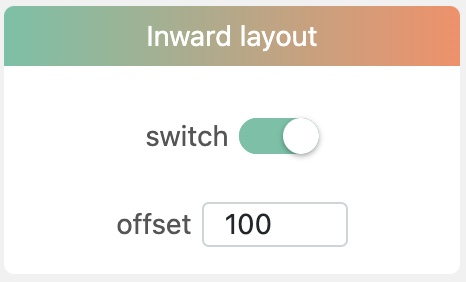
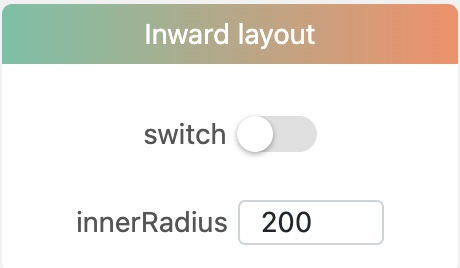
commit

diff --git a/chitree/user_interface/attribute_main/branches.html b/chitree/user_interface/attribute_main/branches.html
@@ -853,7 +853,7 @@
 <h4 id="attributes-in-this-block-are-only-available-in-circular-layout-tree">Attributes in this block are only available in circular layout tree</h4>
 </blockquote>
 <p><button class="list-btn">1</button> <strong>switch</strong>: Whether to display tree in inward layout.</p>
-<p><button class="list-btn">2</button> <strong>offset</strong>: The outer radius offset of tree circle.</p>
+<p><button class="list-btn">2</button> <strong>innerRadius</strong>: The distance from central point to the tip of the max length branch.</p>
 <h1 id="branches">Branches</h1>
 <p><div style="display:flex;justify-content: center;"><img src="img/branches/branches.jpg" alt="canvasSetting-1" style="width:25%;object-fit: scale-down;"></div></p>
 
@@ -1021,7 +1021,6 @@ Text of bootstrap value can be dragged by mouse to a new position.
 </div>
 </div></p>
 
-
                                 
                                 </section>
                             
@@ -1064,7 +1063,7 @@ Text of bootstrap value can be dragged by mouse to a new position.
     <script>
         var gitbook = gitbook || [];
         gitbook.push(function() {
-            gitbook.page.hasChanged({"page":{"title":"branches","level":"1.2.2.4","depth":3,"next":{"title":"folded clade","level":"1.2.2.5","depth":3,"path":"user_interface/attribute_main/foldedClade.md","ref":"user_interface/attribute_main/foldedClade.md","articles":[]},"previous":{"title":"leaves","level":"1.2.2.3","depth":3,"path":"user_interface/attribute_main/leaves.md","ref":"user_interface/attribute_main/leaves.md","articles":[]},"dir":"ltr"},"config":{"gitbook":"*","theme":"default","variables":{},"plugins":[],"pluginsConfig":{"highlight":{},"search":{},"lunr":{"maxIndexSize":1000000,"ignoreSpecialCharacters":false},"sharing":{"facebook":true,"twitter":true,"google":false,"weibo":false,"instapaper":false,"vk":false,"all":["facebook","google","twitter","weibo","instapaper"]},"fontsettings":{"theme":"white","family":"sans","size":2},"theme-default":{"styles":{"website":"styles/website.css","pdf":"styles/pdf.css","epub":"styles/epub.css","mobi":"styles/mobi.css","ebook":"styles/ebook.css","print":"styles/print.css"},"showLevel":false}},"structure":{"langs":"LANGS.md","readme":"README.md","glossary":"GLOSSARY.md","summary":"SUMMARY.md"},"pdf":{"pageNumbers":true,"fontSize":12,"fontFamily":"Arial","paperSize":"a4","chapterMark":"pagebreak","pageBreaksBefore":"/","margin":{"right":62,"left":62,"top":56,"bottom":56}},"styles":{"website":"styles/website.css","pdf":"styles/pdf.css","epub":"styles/epub.css","mobi":"styles/mobi.css","ebook":"styles/ebook.css","print":"styles/print.css"}},"file":{"path":"user_interface/attribute_main/branches.md","mtime":"2022-10-31T12:00:25.647Z","type":"markdown"},"gitbook":{"version":"3.2.3","time":"2022-11-03T10:13:50.429Z"},"basePath":"../..","book":{"language":""}});
+            gitbook.page.hasChanged({"page":{"title":"branches","level":"1.2.2.4","depth":3,"next":{"title":"folded clade","level":"1.2.2.5","depth":3,"path":"user_interface/attribute_main/foldedClade.md","ref":"user_interface/attribute_main/foldedClade.md","articles":[]},"previous":{"title":"leaves","level":"1.2.2.3","depth":3,"path":"user_interface/attribute_main/leaves.md","ref":"user_interface/attribute_main/leaves.md","articles":[]},"dir":"ltr"},"config":{"gitbook":"*","theme":"default","variables":{},"plugins":[],"pluginsConfig":{"highlight":{},"search":{},"lunr":{"maxIndexSize":1000000,"ignoreSpecialCharacters":false},"sharing":{"facebook":true,"twitter":true,"google":false,"weibo":false,"instapaper":false,"vk":false,"all":["facebook","google","twitter","weibo","instapaper"]},"fontsettings":{"theme":"white","family":"sans","size":2},"theme-default":{"styles":{"website":"styles/website.css","pdf":"styles/pdf.css","epub":"styles/epub.css","mobi":"styles/mobi.css","ebook":"styles/ebook.css","print":"styles/print.css"},"showLevel":false}},"structure":{"langs":"LANGS.md","readme":"README.md","glossary":"GLOSSARY.md","summary":"SUMMARY.md"},"pdf":{"pageNumbers":true,"fontSize":12,"fontFamily":"Arial","paperSize":"a4","chapterMark":"pagebreak","pageBreaksBefore":"/","margin":{"right":62,"left":62,"top":56,"bottom":56}},"styles":{"website":"styles/website.css","pdf":"styles/pdf.css","epub":"styles/epub.css","mobi":"styles/mobi.css","ebook":"styles/ebook.css","print":"styles/print.css"}},"file":{"path":"user_interface/attribute_main/branches.md","mtime":"2022-11-05T12:59:57.801Z","type":"markdown"},"gitbook":{"version":"3.2.3","time":"2022-11-05T13:00:14.405Z"},"basePath":"../..","book":{"language":""}});
         });
     </script>
 </div>
